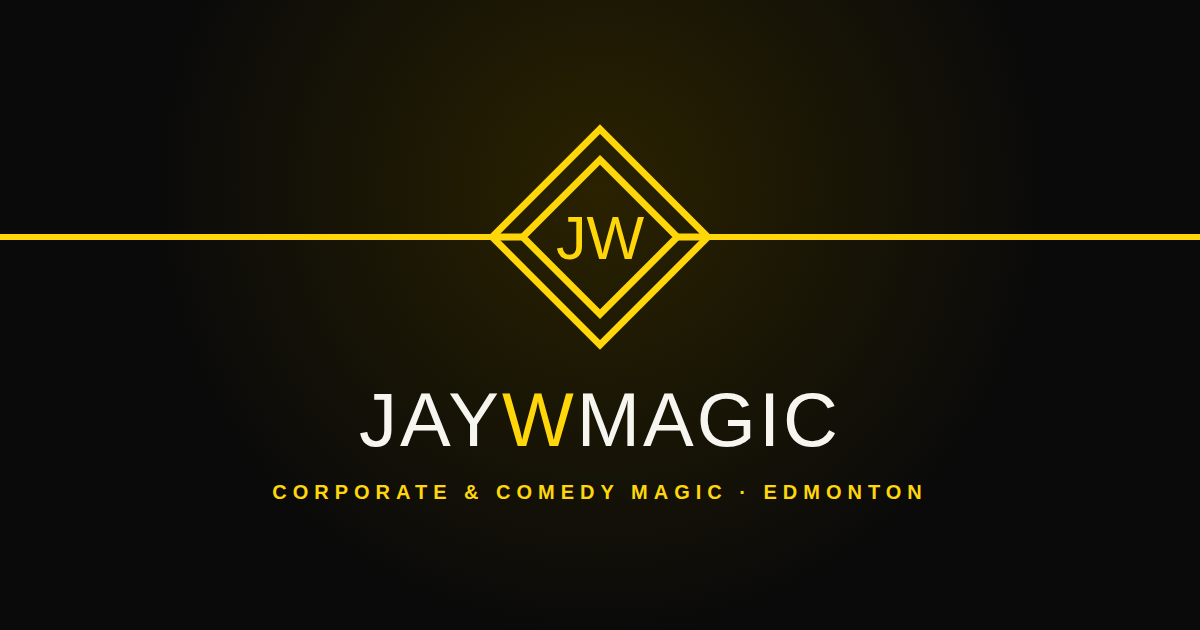
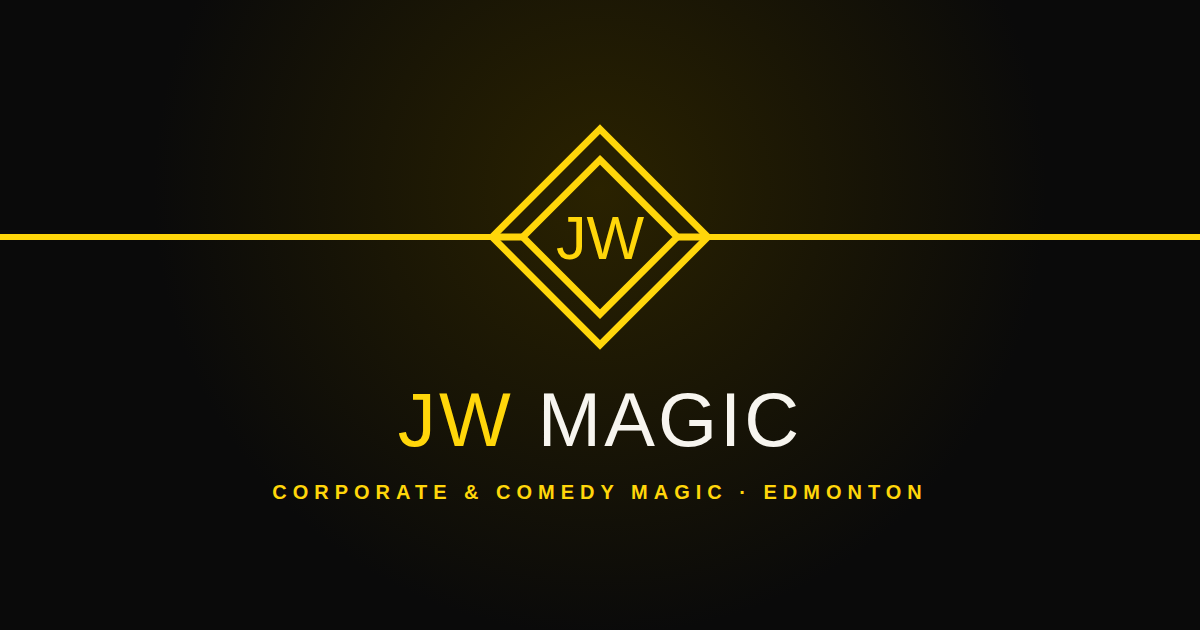
Rebrand to JW Magic, update Instagram, roving and stage set lengths
- Brand name is now JW Magic everywhere (domain and email unchanged)
- Instagram handle @jwmagic_
- Roving/walk-around magic booked in 30-min or 1-hr increments;
  stage show is a 60-90 minute set. Booking form gains a length field
  and the FAQ explains set lengths
- Regenerate social share image with the new name

Claude-Session: https://claude.ai/code/session_019jZ8fYSxYTTiSKqQpyaX8K

Changed region(s): [[0.3083, 0.6032, 0.7092, 0.7238]]

diff --git a/corporate.html b/corporate.html
@@ -3,11 +3,11 @@
 <head>
   <meta charset="utf-8">
   <meta name="viewport" content="width=device-width, initial-scale=1">
-  <title>Book a Corporate Magician in Edmonton | JayWMagic</title>
-  <meta name="description" content="Book Jason Wong for your company holiday party, gala, conference or trade show. Clean comedy magic, strolling close-up and mentalism. Quotes within 24 hours.">
+  <title>Book a Corporate Magician in Edmonton | JW Magic</title>
+  <meta name="description" content="Book Jason Wong for your company holiday party, gala, conference or trade show. Clean comedy magic, roving walk-around magic and a 60–90 minute stage show. Quotes within 24 hours.">
   <link rel="canonical" href="https://www.jaywmagic.com/corporate.html">
   <meta name="theme-color" content="#0a0a0a">
-  <meta property="og:title" content="Book a Corporate Magician | JayWMagic">
+  <meta property="og:title" content="Book a Corporate Magician | JW Magic">
   <meta property="og:description" content="Clean, hilarious, mind-blowing magic for corporate events across Alberta and Canada.">
   <meta property="og:image" content="https://www.jaywmagic.com/assets/img/og.png">
   <link rel="icon" href="assets/img/favicon.svg" type="image/svg+xml">
@@ -51,7 +51,7 @@
         <div class="steps">
           <div class="step reveal"><h3>HR-approved humour</h3><p>Sharp, clean comedy that lands with interns and the C-suite alike. No one gets embarrassed. Everyone gets involved.</p></div>
           <div class="step reveal d1"><h3>Branded magic</h3><p>Your logo appears on a card. Your product materializes. Your key message becomes the finale. Unforgettable.</p></div>
-          <div class="step reveal d2"><h3>Breaks the ice</h3><p>Strolling magic gets departments mixing and gives shy guests something to talk about instantly.</p></div>
+          <div class="step reveal d2"><h3>Breaks the ice</h3><p>Roving magic gets departments mixing and gives shy guests something to talk about instantly.</p></div>
           <div class="step reveal d3"><h3>Zero hassle</h3><p>Minimal tech, flexible timing, invoices that make finance happy. I coordinate directly with your venue.</p></div>
         </div>
       </div>
@@ -69,30 +69,31 @@
         </div>
         <div class="packages">
           <div class="package reveal">
-            <span class="dur">60–120 min</span>
+            <span class="dur">30-min or 1-hr increments</span>
             <h3>The Mingle</h3>
-            <p class="for">Strolling close-up magic for cocktail hours, receptions and networking events.</p>
+            <p class="for">Roving walk-around magic for cocktail hours, receptions and networking events.</p>
             <ul>
+              <li>Booked in 30-minute or 1-hour blocks</li>
               <li>Table-to-table &amp; group performances</li>
               <li>Perfect for 20–300 guests</li>
               <li>Signed-card souvenirs</li>
               <li>No stage or sound needed</li>
             </ul>
-            <a class="btn btn-ghost btn-block" href="#book" data-package="Strolling close-up">Request quote</a>
+            <a class="btn btn-ghost btn-block" href="#book" data-package="Roving / walk-around magic">Request quote</a>
           </div>
           <div class="package popular reveal d1">
             <span class="ribbon">Most booked</span>
-            <span class="dur">Strolling + 30–45 min show</span>
+            <span class="dur">Roving + 60–90 min stage show</span>
             <h3>The Headliner</h3>
             <p class="for">Mingle magic during cocktails, then a full comedy stage show after dinner.</p>
             <ul>
               <li>Everything in The Mingle</li>
-              <li>Interactive comedy stage show</li>
+              <li>60–90 minute comedy stage show, tailored to your event</li>
               <li>Mentalism finale</li>
               <li>Custom branded moment</li>
               <li>Pre-event planning call</li>
             </ul>
-            <a class="btn btn-block" href="#book" data-package="Headliner (strolling + stage)">Request quote <span class="arrow">→</span></a>
+            <a class="btn btn-block" href="#book" data-package="Headliner (roving + stage show)">Request quote <span class="arrow">→</span></a>
           </div>
           <div class="package reveal d2">
             <span class="dur">Custom</span>
@@ -153,15 +154,28 @@
                 <select id="b-guests" name="guests">
                   <option value="">Select…</option><option>Under 25</option><option>25–75</option><option>75–150</option><option>150–300</option><option>300+</option>
                 </select></div>
-              <div class="field full"><label for="b-style">What are you looking for?</label>
+              <div class="field"><label for="b-style">What are you looking for?</label>
                 <select id="b-style" name="style">
                   <option value="">Not sure yet — help me decide</option>
-                  <option>Strolling close-up</option>
-                  <option>Comedy stage show</option>
-                  <option>Headliner (strolling + stage)</option>
+                  <option>Roving / walk-around magic</option>
+                  <option>Comedy stage show (60–90 min)</option>
+                  <option>Headliner (roving + stage show)</option>
                   <option>Trade show / activation</option>
                   <option>Mentalism / VIP</option>
                   <option>Gambling demonstration</option>
+                </select></div>
+              <div class="field"><label for="b-length">How long?</label>
+                <select id="b-length" name="duration">
+                  <option value="">Not sure yet</option>
+                  <option>Roving: 30 min</option>
+                  <option>Roving: 1 hr</option>
+                  <option>Roving: 1.5 hr</option>
+                  <option>Roving: 2 hr</option>
+                  <option>Roving: 2+ hr</option>
+                  <option>Stage show: 60 min</option>
+                  <option>Stage show: 75 min</option>
+                  <option>Stage show: 90 min</option>
+                  <option>Roving + stage show</option>
                 </select></div>
               <div class="field full"><label for="b-budget">Budget range</label>
                 <select id="b-budget" name="budget">
@@ -186,9 +200,10 @@
           <h2 class="reveal d1">Questions? <span class="hl">Answered.</span></h2>
         </div>
         <div class="faq reveal">
+          <details><summary>How long are your sets?</summary><p>Roving (walk-around) magic is booked in 30-minute or 1-hour increments, so it fits neatly around cocktails, dinner or networking. The stage show is a 60–90 minute set, tailored to your schedule and what you're looking for. Many clients book both.</p></details>
           <details><summary>How far in advance should we book?</summary><p>As early as you can — November and December weekends book months ahead. That said, last-minute requests happen all the time, so always ask.</p></details>
           <details><summary>Is the show appropriate for a corporate audience?</summary><p>Absolutely. The comedy is clean and inclusive, volunteers are always treated with respect, and nobody gets put on the spot in a way they wouldn't enjoy.</p></details>
-          <details><summary>What do you need from us on the day?</summary><p>For strolling magic, nothing at all. For stage shows, a clear performance area and a microphone (I can bring my own sound for smaller rooms). I'll send a simple tech sheet after booking.</p></details>
+          <details><summary>What do you need from us on the day?</summary><p>For roving magic, nothing at all. For stage shows, a clear performance area and a microphone (I can bring my own sound for smaller rooms). I'll send a simple tech sheet after booking.</p></details>
           <details><summary>Can you incorporate our brand or message?</summary><p>Yes — that's one of my favourite things to do. Logos on cards, product reveals, a prediction that spells out your company tagline. We'll brainstorm on our planning call.</p></details>
           <details><summary>Do you travel outside Edmonton?</summary><p>Yes. I regularly perform across Alberta and travel anywhere in Canada (and beyond). Travel costs are quoted upfront.</p></details>
           <details><summary>How does payment work?</summary><p>A deposit secures your date, with the balance due on or before the event. I accept e-transfer, credit card and company cheques, and provide a proper invoice.</p></details>

diff --git a/index.html b/index.html
@@ -3,12 +3,12 @@
 <head>
   <meta charset="utf-8">
   <meta name="viewport" content="width=device-width, initial-scale=1">
-  <title>JayWMagic | Corporate &amp; Comedy Magician in Edmonton — Jason Wong</title>
-  <meta name="description" content="Jason Wong (JayWMagic) is Edmonton's corporate and comedy magician. Clean, hilarious, mind-blowing magic for holiday parties, galas, conferences, trade shows and private events.">
+  <title>JW Magic | Corporate &amp; Comedy Magician in Edmonton — Jason Wong</title>
+  <meta name="description" content="Jason Wong (JW Magic) is Edmonton's corporate and comedy magician. Clean, hilarious, mind-blowing magic for holiday parties, galas, conferences, trade shows and private events.">
   <link rel="canonical" href="https://www.jaywmagic.com/">
   <meta name="theme-color" content="#0a0a0a">
   <meta property="og:type" content="website">
-  <meta property="og:title" content="JayWMagic | Corporate &amp; Comedy Magic">
+  <meta property="og:title" content="JW Magic | Corporate &amp; Comedy Magic">
   <meta property="og:description" content="Edmonton's corporate & comedy magician. Book Jason Wong for your next event.">
   <meta property="og:url" content="https://www.jaywmagic.com/">
   <meta property="og:image" content="https://www.jaywmagic.com/assets/img/og.png">
@@ -22,7 +22,7 @@
   {
     "@context": "https://schema.org",
     "@type": "EntertainmentBusiness",
-    "name": "JayWMagic",
+    "name": "JW Magic",
     "alternateName": "Jason Wong Magic",
     "url": "https://www.jaywmagic.com/",
     "email": "jaywmagic@gmail.com",
@@ -32,7 +32,7 @@
     "address": { "@type": "PostalAddress", "addressLocality": "Edmonton", "addressRegion": "AB", "addressCountry": "CA" },
     "areaServed": ["Edmonton", "Alberta", "Canada"],
     "founder": { "@type": "Person", "name": "Jason Wong", "jobTitle": "Magician" },
-    "sameAs": ["https://www.instagram.com/jaywmagic"]
+    "sameAs": ["https://www.instagram.com/jwmagic_"]
   }
   </script>
 </head>
@@ -91,7 +91,7 @@
             <span class="eyebrow reveal">The shows</span>
             <h2 class="reveal d1">Pick your <span class="hl">flavour</span><br>of impossible.</h2>
           </div>
-          <p class="lead reveal d2">Every show is tailored to your crowd, your venue and your vibe. Mix and match — most clients book a strolling set during cocktails and a stage show after dinner.</p>
+          <p class="lead reveal d2">Every show is tailored to your crowd, your venue and your vibe. Mix and match — most clients book roving magic during cocktails and a stage show after dinner.</p>
         </div>
 
         <div class="services">
@@ -99,15 +99,15 @@
             <span class="suit" aria-hidden="true">♠</span>
             <span class="num">01 / Signature</span>
             <h3>Corporate<br>Comedy Show</h3>
-            <p class="muted">A 30–45 minute stage show built for company audiences. Big laughs, bigger reactions, volunteers who become office legends — and your brand or message woven right into the magic if you'd like.</p>
-            <ul><li>Holiday parties</li><li>Awards nights</li><li>Conferences</li><li>Keynote openers</li></ul>
+            <p class="muted">A 60–90 minute stage show built for company audiences, tailored to your event. Big laughs, bigger reactions, volunteers who become office legends — and your brand or message woven right into the magic if you'd like.</p>
+            <ul><li>Holiday parties</li><li>Awards nights</li><li>Conferences</li><li>Galas</li></ul>
           </article>
           <article class="service reveal d1">
             <span class="suit" aria-hidden="true">♦</span>
             <span class="num">02</span>
-            <h3>Strolling Close-Up</h3>
-            <p class="muted">Table-to-table miracles inches from your guests' eyes. The ultimate icebreaker for cocktail hours and mingling.</p>
-            <ul><li>Cocktail hours</li><li>Receptions</li></ul>
+            <h3>Roving Magic</h3>
+            <p class="muted">Walk-around miracles inches from your guests' eyes, booked in 30-minute or 1-hour increments. The ultimate icebreaker for cocktail hours and mingling.</p>
+            <ul><li>30 min or 1 hr blocks</li><li>Cocktail hours</li><li>Receptions</li></ul>
           </article>
           <article class="service reveal">
             <span class="suit" aria-hidden="true">♣</span>
@@ -181,7 +181,7 @@
         </div>
         <div class="gallery">
           <figure class="g-item reveal">
-            <a href="assets/img/photos/corporate-closeup.jpg" data-lightbox aria-label="View larger: Corporate reception"><img src="assets/img/photos/corporate-closeup.jpg" width="2576" height="1717" alt="Strolling close-up magic at a corporate reception" loading="lazy" decoding="async"></a>
+            <a href="assets/img/photos/corporate-closeup.jpg" data-lightbox aria-label="View larger: Corporate reception"><img src="assets/img/photos/corporate-closeup.jpg" width="2576" height="1717" alt="Roving close-up magic at a corporate reception" loading="lazy" decoding="async"></a>
             <figcaption>Corporate reception</figcaption>
           </figure>
           <figure class="g-item reveal d1">
@@ -302,18 +302,18 @@
       <div class="container">
         <div class="section-head">
           <div>
-            <span class="eyebrow reveal">@jaywmagic</span>
+            <span class="eyebrow reveal">@jwmagic_</span>
             <h2 class="reveal d1">Follow the <span class="hl">madness.</span></h2>
           </div>
-          <a class="btn btn-ghost reveal" data-ig href="https://www.instagram.com/jaywmagic" target="_blank" rel="noopener">Follow on Instagram <span class="arrow">→</span></a>
+          <a class="btn btn-ghost reveal" data-ig href="https://www.instagram.com/jwmagic_" target="_blank" rel="noopener">Follow on Instagram <span class="arrow">→</span></a>
         </div>
         <div class="ig-grid reveal">
-          <a class="ig-tile" data-ig href="https://www.instagram.com/jaywmagic" target="_blank" rel="noopener" aria-label="Instagram">♠</a>
-          <a class="ig-tile" data-ig href="https://www.instagram.com/jaywmagic" target="_blank" rel="noopener" aria-label="Instagram">♦</a>
-          <a class="ig-tile" data-ig href="https://www.instagram.com/jaywmagic" target="_blank" rel="noopener" aria-label="Instagram">♣</a>
-          <a class="ig-tile" data-ig href="https://www.instagram.com/jaywmagic" target="_blank" rel="noopener" aria-label="Instagram">♥</a>
-          <a class="ig-tile" data-ig href="https://www.instagram.com/jaywmagic" target="_blank" rel="noopener" aria-label="Instagram">★</a>
-          <a class="ig-tile" data-ig href="https://www.instagram.com/jaywmagic" target="_blank" rel="noopener" aria-label="Instagram">♠</a>
+          <a class="ig-tile" data-ig href="https://www.instagram.com/jwmagic_" target="_blank" rel="noopener" aria-label="Instagram">♠</a>
+          <a class="ig-tile" data-ig href="https://www.instagram.com/jwmagic_" target="_blank" rel="noopener" aria-label="Instagram">♦</a>
+          <a class="ig-tile" data-ig href="https://www.instagram.com/jwmagic_" target="_blank" rel="noopener" aria-label="Instagram">♣</a>
+          <a class="ig-tile" data-ig href="https://www.instagram.com/jwmagic_" target="_blank" rel="noopener" aria-label="Instagram">♥</a>
+          <a class="ig-tile" data-ig href="https://www.instagram.com/jwmagic_" target="_blank" rel="noopener" aria-label="Instagram">★</a>
+          <a class="ig-tile" data-ig href="https://www.instagram.com/jwmagic_" target="_blank" rel="noopener" aria-label="Instagram">♠</a>
         </div>
       </div>
     </section>

diff --git a/assets/js/main.js b/assets/js/main.js
@@ -28,8 +28,8 @@
     header.className = "site-header";
     header.innerHTML =
       '<div class="container nav">' +
-        '<a class="logo" href="index.html" aria-label="JayWMagic home">' + LOGO +
-          '<span class="logo-word">Jay<span>W</span>Magic</span></a>' +
+        '<a class="logo" href="index.html" aria-label="JW Magic home">' + LOGO +
+          '<span class="logo-word"><span>JW</span> Magic</span></a>' +
         '<button class="menu-toggle" aria-label="Open menu" aria-expanded="false" aria-controls="nav-links"><span></span><span></span><span></span></button>' +
         '<ul class="nav-links" id="nav-links">' +
           nav.map(function (n) {
@@ -66,7 +66,7 @@
         '<div class="footer-big" aria-hidden="true">Pick a <span>card.</span></div>' +
         '<div class="footer-grid">' +
           "<div>" +
-            '<a class="logo" href="index.html" aria-label="JayWMagic home">' + LOGO + '<span class="logo-word">Jay<span>W</span>Magic</span></a>' +
+            '<a class="logo" href="index.html" aria-label="JW Magic home">' + LOGO + '<span class="logo-word"><span>JW</span> Magic</span></a>' +
             '<p class="muted" style="margin-top:18px;max-width:34ch">Corporate &amp; comedy magic by ' + C.name + '. Based in ' + C.city + ', performing across Canada.</p>' +
             '<form class="newsletter" data-form="newsletter" novalidate>' +
               '<label class="sr-only" for="nl-email" style="position:absolute;left:-9999px">Email</label>' +
@@ -137,7 +137,7 @@
   var LABELS = {
     name: "Name", email: "Email", phone: "Phone", company: "Company / organization",
     event_type: "Event type", date: "Event date", time: "Start time", location: "City / venue",
-    guests: "Guest count", style: "Style of magic", budget: "Budget", heard: "How they heard",
+    guests: "Guest count", style: "Style of magic", duration: "Length", budget: "Budget", heard: "How they heard",
     message: "Message", subject: "Subject", newsletter: "Join mailing list"
   };
 
@@ -278,8 +278,8 @@
     btn.addEventListener("click", function () {
       var url = btn.getAttribute("data-video");
       var frame = btn.closest(".video-frame");
-      if (!url) { toast("Showreel coming soon — follow @jaywmagic for clips!"); return; }
-      frame.innerHTML = '<iframe src="' + url + (url.indexOf("?") > -1 ? "&" : "?") + 'autoplay=1" title="JayWMagic showreel" allow="autoplay; encrypted-media; picture-in-picture" allowfullscreen></iframe>';
+      if (!url) { toast("Showreel coming soon — follow @jwmagic_ for clips!"); return; }
+      frame.innerHTML = '<iframe src="' + url + (url.indexOf("?") > -1 ? "&" : "?") + 'autoplay=1" title="JW Magic showreel" allow="autoplay; encrypted-media; picture-in-picture" allowfullscreen></iframe>';
     });
   });
 

diff --git a/contact.html b/contact.html
@@ -3,11 +3,11 @@
 <head>
   <meta charset="utf-8">
   <meta name="viewport" content="width=device-width, initial-scale=1">
-  <title>Contact Jason Wong | JayWMagic</title>
+  <title>Contact Jason Wong | JW Magic</title>
   <meta name="description" content="Email, call or message Edmonton magician Jason Wong about bookings, merch orders, lessons or collaborations.">
   <link rel="canonical" href="https://www.jaywmagic.com/contact.html">
   <meta name="theme-color" content="#0a0a0a">
-  <meta property="og:title" content="Contact Jason Wong | JayWMagic">
+  <meta property="og:title" content="Contact Jason Wong | JW Magic">
   <meta property="og:description" content="Email, call or message Edmonton magician Jason Wong about bookings, merch orders, lessons or collaborations.">
   <meta property="og:image" content="https://www.jaywmagic.com/assets/img/og.png">
   <link rel="icon" href="assets/img/favicon.svg" type="image/svg+xml">
@@ -44,8 +44,8 @@
             <a class="contact-card reveal d1" data-tel href="tel:7807298383">
               <span class="ico" data-icon="phone"></span><span><small>Call or text</small><strong data-phone>780-729-8383</strong></span>
             </a>
-            <a class="contact-card reveal d2" data-ig href="https://www.instagram.com/jaywmagic" target="_blank" rel="noopener">
-              <span class="ico" data-icon="ig"></span><span><small>Instagram</small><strong>@jaywmagic</strong></span>
+            <a class="contact-card reveal d2" data-ig href="https://www.instagram.com/jwmagic_" target="_blank" rel="noopener">
+              <span class="ico" data-icon="ig"></span><span><small>Instagram</small><strong>@jwmagic_</strong></span>
             </a>
             <div class="contact-card reveal d3" style="cursor:default">
               <span class="ico" data-icon="pin"></span><span><small>Based in</small><strong>Edmonton, Alberta</strong><br><span class="muted" style="font-size:.9rem">Performing across Canada</span></span>

diff --git a/terms.html b/terms.html
@@ -3,11 +3,11 @@
 <head>
   <meta charset="utf-8">
   <meta name="viewport" content="width=device-width, initial-scale=1">
-  <title>Terms &amp; Conditions | JayWMagic</title>
+  <title>Terms &amp; Conditions | JW Magic</title>
   <meta name="description" content="Terms & Conditions for jaywmagic.com.">
   <link rel="canonical" href="https://www.jaywmagic.com/terms.html">
   <meta name="theme-color" content="#0a0a0a">
-  <meta property="og:title" content="Terms &amp; Conditions | JayWMagic">
+  <meta property="og:title" content="Terms &amp; Conditions | JW Magic">
   <meta property="og:description" content="Terms & Conditions for jaywmagic.com.">
   <meta property="og:image" content="https://www.jaywmagic.com/assets/img/og.png">
   <link rel="icon" href="assets/img/favicon.svg" type="image/svg+xml">
@@ -35,9 +35,9 @@
 <h2>Products</h2>
 <p>Product images are representative; colours and print may vary slightly. Prices are listed in Canadian dollars and may change without notice.</p>
 <h2>Intellectual property</h2>
-<p>All content on this site — including text, logos, photos and video — belongs to JayWMagic and may not be reused without permission.</p>
+<p>All content on this site — including text, logos, photos and video — belongs to JW Magic and may not be reused without permission.</p>
 <h2>Liability</h2>
-<p>JayWMagic is not liable for indirect or consequential losses arising from use of this site or our services, to the extent permitted by law.</p>
+<p>JW Magic is not liable for indirect or consequential losses arising from use of this site or our services, to the extent permitted by law.</p>
 <h2>Contact</h2>
 <p>Email <a href="mailto:jaywmagic@gmail.com">jaywmagic@gmail.com</a> with any questions.</p>
       </div>

diff --git a/privacy.html b/privacy.html
@@ -3,11 +3,11 @@
 <head>
   <meta charset="utf-8">
   <meta name="viewport" content="width=device-width, initial-scale=1">
-  <title>Privacy Policy | JayWMagic</title>
+  <title>Privacy Policy | JW Magic</title>
   <meta name="description" content="Privacy Policy for jaywmagic.com.">
   <link rel="canonical" href="https://www.jaywmagic.com/privacy.html">
   <meta name="theme-color" content="#0a0a0a">
-  <meta property="og:title" content="Privacy Policy | JayWMagic">
+  <meta property="og:title" content="Privacy Policy | JW Magic">
   <meta property="og:description" content="Privacy Policy for jaywmagic.com.">
   <meta property="og:image" content="https://www.jaywmagic.com/assets/img/og.png">
   <link rel="icon" href="assets/img/favicon.svg" type="image/svg+xml">
@@ -27,7 +27,7 @@
     <section class="section" style="padding-top:60px">
       <div class="container prose">
 <p>Last updated: October 2026</p>
-<p>JayWMagic ("we", "us") respects your privacy. This policy explains what information we collect through jaywmagic.com and how we use it.</p>
+<p>JW Magic ("we", "us") respects your privacy. This policy explains what information we collect through jaywmagic.com and how we use it.</p>
 <h2>What we collect</h2>
 <p>When you submit a booking request, contact form or mailing-list sign-up, we collect the details you provide — such as your name, email address, phone number, company and event details. When you buy merch, payment is processed by our payment provider (e.g. Stripe); we never see or store your full card details.</p>
 <h2>How we use it</h2>

diff --git a/shop.html b/shop.html
@@ -3,12 +3,12 @@
 <head>
   <meta charset="utf-8">
   <meta name="viewport" content="width=device-width, initial-scale=1">
-  <title>Merch Shop | JayWMagic</title>
-  <meta name="description" content="Official JayWMagic merch: signature playing cards, apparel, magic kits, gift cards and 1-on-1 virtual magic lessons.">
+  <title>Merch Shop | JW Magic</title>
+  <meta name="description" content="Official JW Magic merch: signature playing cards, apparel, magic kits, gift cards and 1-on-1 virtual magic lessons.">
   <link rel="canonical" href="https://www.jaywmagic.com/shop.html">
   <meta name="theme-color" content="#0a0a0a">
-  <meta property="og:title" content="Merch Shop | JayWMagic">
-  <meta property="og:description" content="Official JayWMagic merch: signature playing cards, apparel, magic kits, gift cards and 1-on-1 virtual magic lessons.">
+  <meta property="og:title" content="Merch Shop | JW Magic">
+  <meta property="og:description" content="Official JW Magic merch: signature playing cards, apparel, magic kits, gift cards and 1-on-1 virtual magic lessons.">
   <meta property="og:image" content="https://www.jaywmagic.com/assets/img/og.png">
   <link rel="icon" href="assets/img/favicon.svg" type="image/svg+xml">
   <link rel="preconnect" href="https://fonts.googleapis.com">

diff --git a/shipping.html b/shipping.html
@@ -3,11 +3,11 @@
 <head>
   <meta charset="utf-8">
   <meta name="viewport" content="width=device-width, initial-scale=1">
-  <title>Shipping Policy | JayWMagic</title>
+  <title>Shipping Policy | JW Magic</title>
   <meta name="description" content="Shipping Policy for jaywmagic.com.">
   <link rel="canonical" href="https://www.jaywmagic.com/shipping.html">
   <meta name="theme-color" content="#0a0a0a">
-  <meta property="og:title" content="Shipping Policy | JayWMagic">
+  <meta property="og:title" content="Shipping Policy | JW Magic">
   <meta property="og:description" content="Shipping Policy for jaywmagic.com.">
   <meta property="og:image" content="https://www.jaywmagic.com/assets/img/og.png">
   <link rel="icon" href="assets/img/favicon.svg" type="image/svg+xml">

diff --git a/refunds.html b/refunds.html
@@ -3,11 +3,11 @@
 <head>
   <meta charset="utf-8">
   <meta name="viewport" content="width=device-width, initial-scale=1">
-  <title>Refund Policy | JayWMagic</title>
+  <title>Refund Policy | JW Magic</title>
   <meta name="description" content="Refund Policy for jaywmagic.com.">
   <link rel="canonical" href="https://www.jaywmagic.com/refunds.html">
   <meta name="theme-color" content="#0a0a0a">
-  <meta property="og:title" content="Refund Policy | JayWMagic">
+  <meta property="og:title" content="Refund Policy | JW Magic">
   <meta property="og:description" content="Refund Policy for jaywmagic.com.">
   <meta property="og:image" content="https://www.jaywmagic.com/assets/img/og.png">
   <link rel="icon" href="assets/img/favicon.svg" type="image/svg+xml">

diff --git a/404.html b/404.html
@@ -3,11 +3,11 @@
 <head>
   <meta charset="utf-8">
   <meta name="viewport" content="width=device-width, initial-scale=1">
-  <title>Page vanished | JayWMagic</title>
+  <title>Page vanished | JW Magic</title>
   <meta name="description" content="This page has disappeared.">
   <link rel="canonical" href="https://www.jaywmagic.com/404.html">
   <meta name="theme-color" content="#0a0a0a">
-  <meta property="og:title" content="Page vanished | JayWMagic">
+  <meta property="og:title" content="Page vanished | JW Magic">
   <meta property="og:description" content="This page has disappeared.">
   <meta property="og:image" content="https://www.jaywmagic.com/assets/img/og.png">
   <link rel="icon" href="assets/img/favicon.svg" type="image/svg+xml">

diff --git a/assets/js/config.js b/assets/js/config.js
@@ -6,11 +6,11 @@
  */
 window.JW_CONFIG = {
   name: "Jason Wong",
-  brand: "JayWMagic",
+  brand: "JW Magic",
   email: "jaywmagic@gmail.com",
   phone: "780-729-8383",
   city: "Edmonton, Alberta",
-  instagram: "https://www.instagram.com/jaywmagic",
+  instagram: "https://www.instagram.com/jwmagic_",
 
   /*
    * FORMS (booking + contact + mailing list)

diff --git a/README.md b/README.md
@@ -1,4 +1,4 @@
-# JayWMagic — jaywmagic.com
+# JW Magic — jaywmagic.com
 
 The website for Jason Wong, corporate and comedy magician in Edmonton. It's a plain static site (HTML, CSS and JS) with no build step, so it runs free on Netlify, Cloudflare Pages or GitHub Pages.
 
